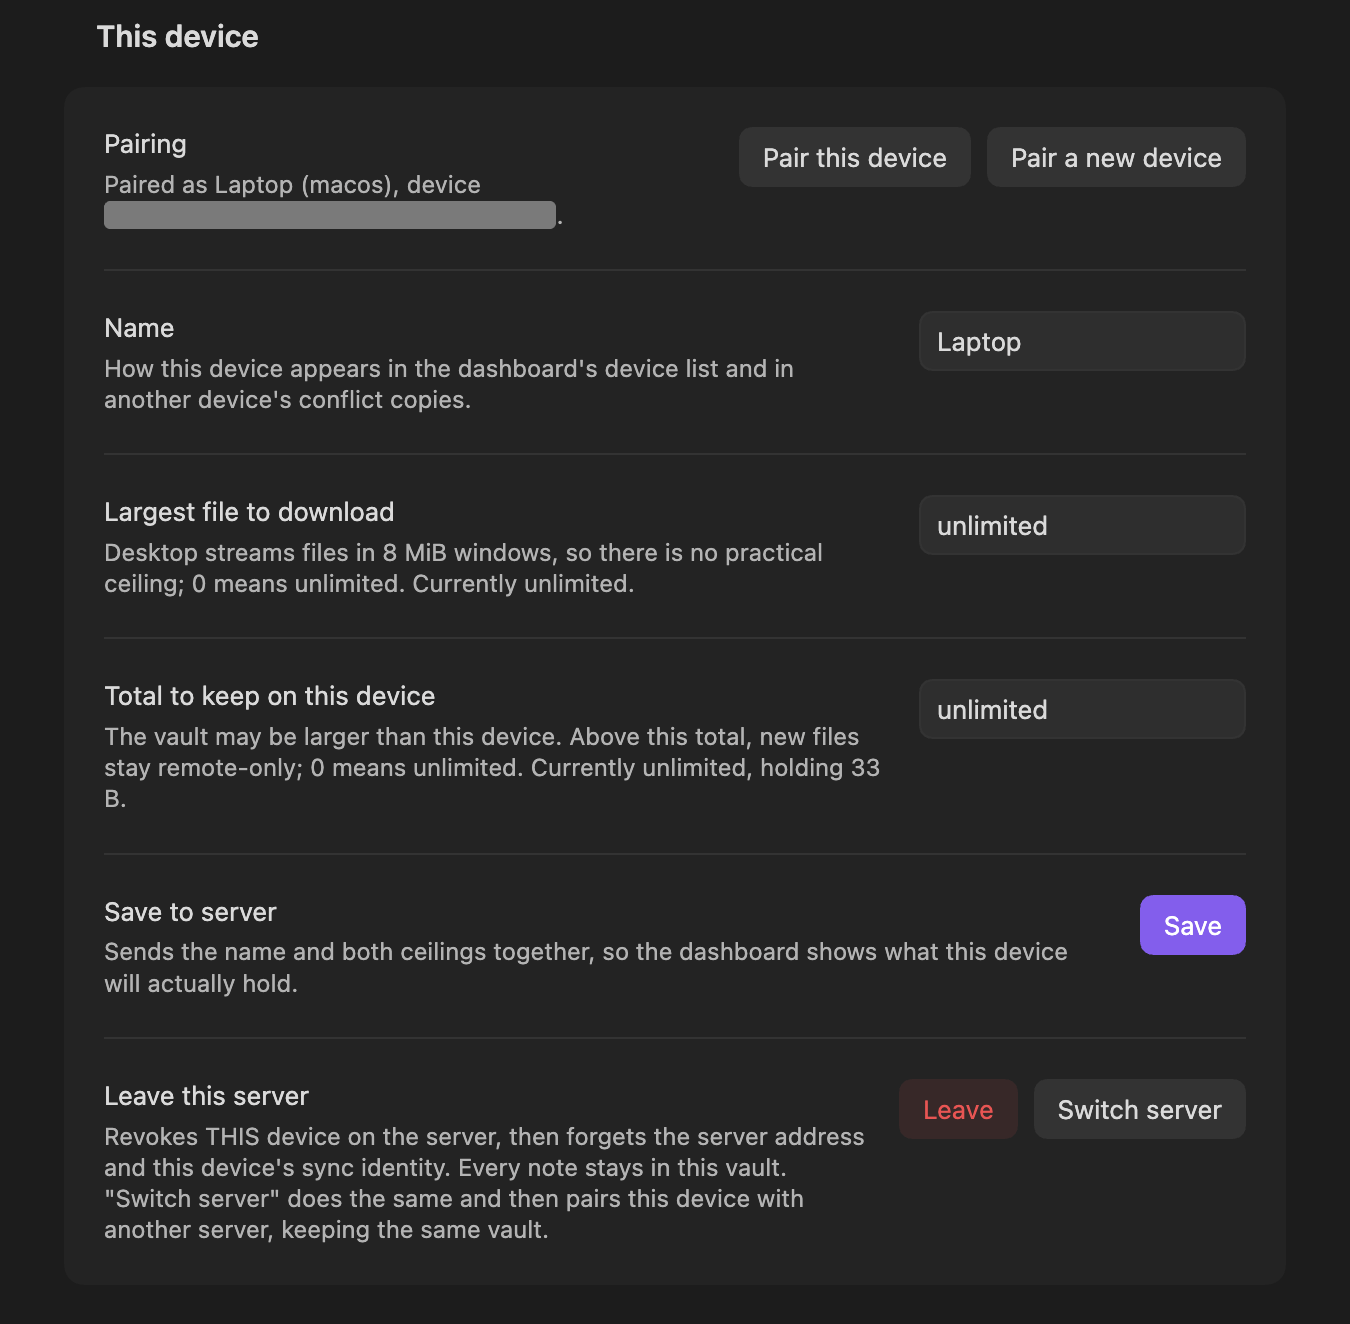
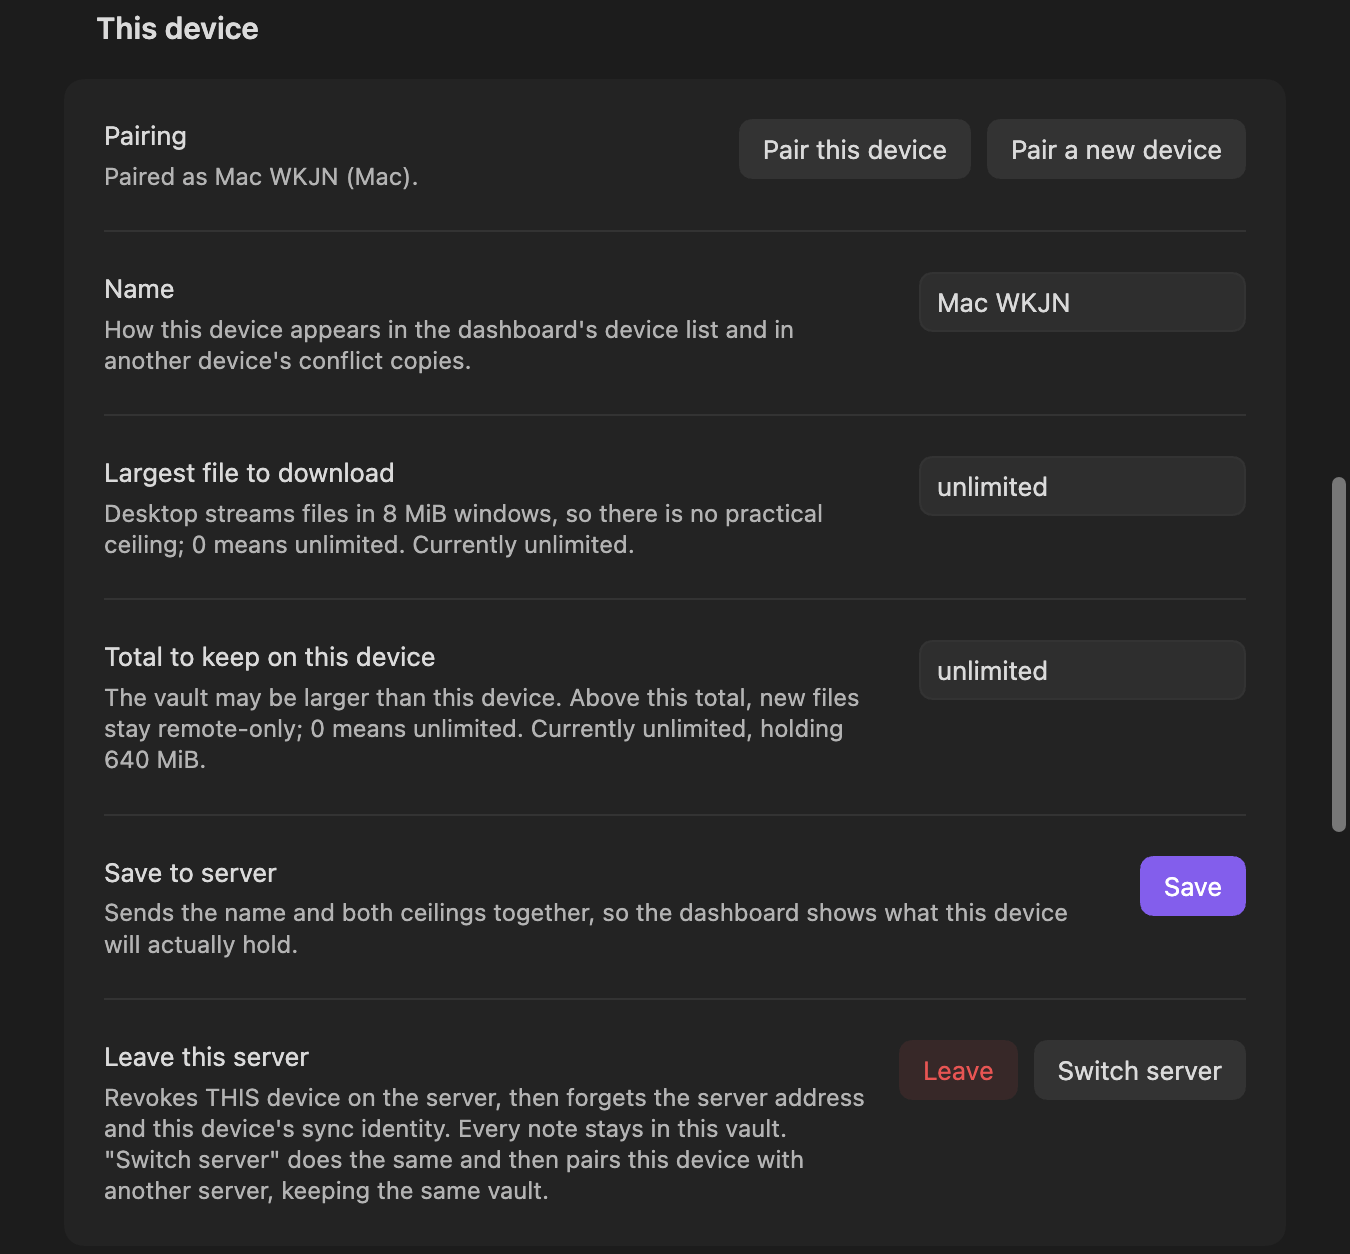
Show a new device, a copied vault and the approval question as 1.1.4 draws them (#201)
Problem. Five CAPTURE(1.1.4) slots had no image: the This device section
on a device that is not paired yet (settings.md, quickstart.md step 5,
troubleshooting.md "Setup says the setup token does not match"), the
approval question with its match code, and Settings on a copied vault
(both troubleshooting.md). The published This
device image showed 1.1.3's words, "Paired as Laptop (macos), device" and
an id covered by a grey bar; 1.1.4 prints no id there.

Captures. From a third isolated rig profile (Obsidian 1.13.4, macOS, a
disposable vault on the loopback obsyncd, the train build at 40fa48b,
main.js 5a600277...), driven over its DevTools port and cropped to the
section or dialog. Values were masked in the page and the mask checked in
the same step; the only values left in the clear are the disposable
defaults, the name the plugin made up for this profile ("Mac WKJN", #152)
and "unlimited":
- New device: Pairing reads "Not paired yet", Pair a new device greyed,
  and the Setup token field drawn masked (bullets set in the page only,
  never saved, cleared after the shot).
- Approval: rig B made a code, the new profile claimed it. Neither image
  holds the one-time code: B's code block was gone once the claim came,
  and the claimant's field was empty. The match code shown, 667 151, is
  that one pairing's comparison code, not a credential.
- Copied vault: the new profile's .obsidian folder and one note, copied to
[…]

diff --git a/docs/troubleshooting.md b/docs/troubleshooting.md
@@ -370,7 +370,7 @@ no access of any kind.
    past its ten minutes, approved or not) leaves nothing behind: pair again
    with a new code.
 
-<!-- CAPTURE(1.1.4): the approval question with the pairing match code -->
+![Pair a new device on the device that made the code: Approve "Mac WKJN" (Mac, obsync 1.1.4)? Approve only if the new device shows the code 667 151. It will sync vault "rig-C" (0 notes). Approve and Reject below](assets/pair-approve-match-code.png)
 
 ## The plugin says this device is not paired
 
@@ -414,7 +414,7 @@ of those gave the same refusal.
    again.
 4. Keep the token private: anyone holding it can sign in to your dashboard.
 
-<!-- CAPTURE(1.1.4): the Setup or recover row with its masked Setup token field -->
+![The Setup or recover row under Pairing on a new device, its Setup token field masked, beside Set up or recover](assets/settings-new-device.png)
 
 ## Pairing says the code is not valid
 
@@ -800,7 +800,7 @@ untouched.
 4. To add a device, pair it. Copying a vault by hand, or renaming its folder,
    is not a way to add one.
 
-<!-- CAPTURE(1.1.4): Settings on a copied vault: the copy notice with Pair this device and Start fresh -->
+![This device on a copied vault: Pairing reads This vault is a copy, or its folder was renamed. It will not sync as the original. Pair it as a new device, or start fresh. Pair this device and Start fresh beside it](assets/settings-copied-vault.png)
 
 ## A file is not syncing
 

diff --git a/docs/settings.md b/docs/settings.md
@@ -50,11 +50,11 @@ independently; no re-pairing or state reset is needed.
 
 ## This device
 
-![The This device section on a paired computer: Pairing with its device id covered, Name set to Laptop, both download limits, Save to server, and Leave this server with Leave and Switch server](assets/settings-this-device.png)
+![The This device section on a paired computer: Pairing reads Paired as Mac WKJN (Mac), Name holds that name the plugin made up, both download limits read unlimited, then Save to server, and Leave this server with Leave and Switch server](assets/settings-this-device.png)
 
 On a device that is not paired yet, this section also shows **Setup or recover**.
 
-<!-- CAPTURE(1.1.4): the This device section on a new device, with the Setup or recover row and its masked Setup token field -->
+![The This device section on a new device: Pairing reads Not paired yet, with Pair this device and a greyed Pair a new device, and Setup or recover holds a masked Setup token field beside Set up or recover](assets/settings-new-device.png)
 
 | Setting | Default | What it does | When to change it |
 | --- | --- | --- | --- |

diff --git a/docs/quickstart.md b/docs/quickstart.md
@@ -110,7 +110,7 @@ Obsidian's native secret storage; unavailable storage stops setup and sync.
    The plugin creates the account and this device, and makes the vault key
    on this computer.
 
-   <!-- CAPTURE(1.1.4): the This device section on a new device: Pairing, and the Setup or recover row with its masked Setup token field -->
+   ![The This device section on a new device: Pairing reads Not paired yet, and Setup or recover holds the masked Setup token field beside Set up or recover](assets/settings-new-device.png)
 
 6. It then shows the **recovery phrase**, 24 words, and asks for three of
    them to check you wrote them down. Write it down and keep it off this
